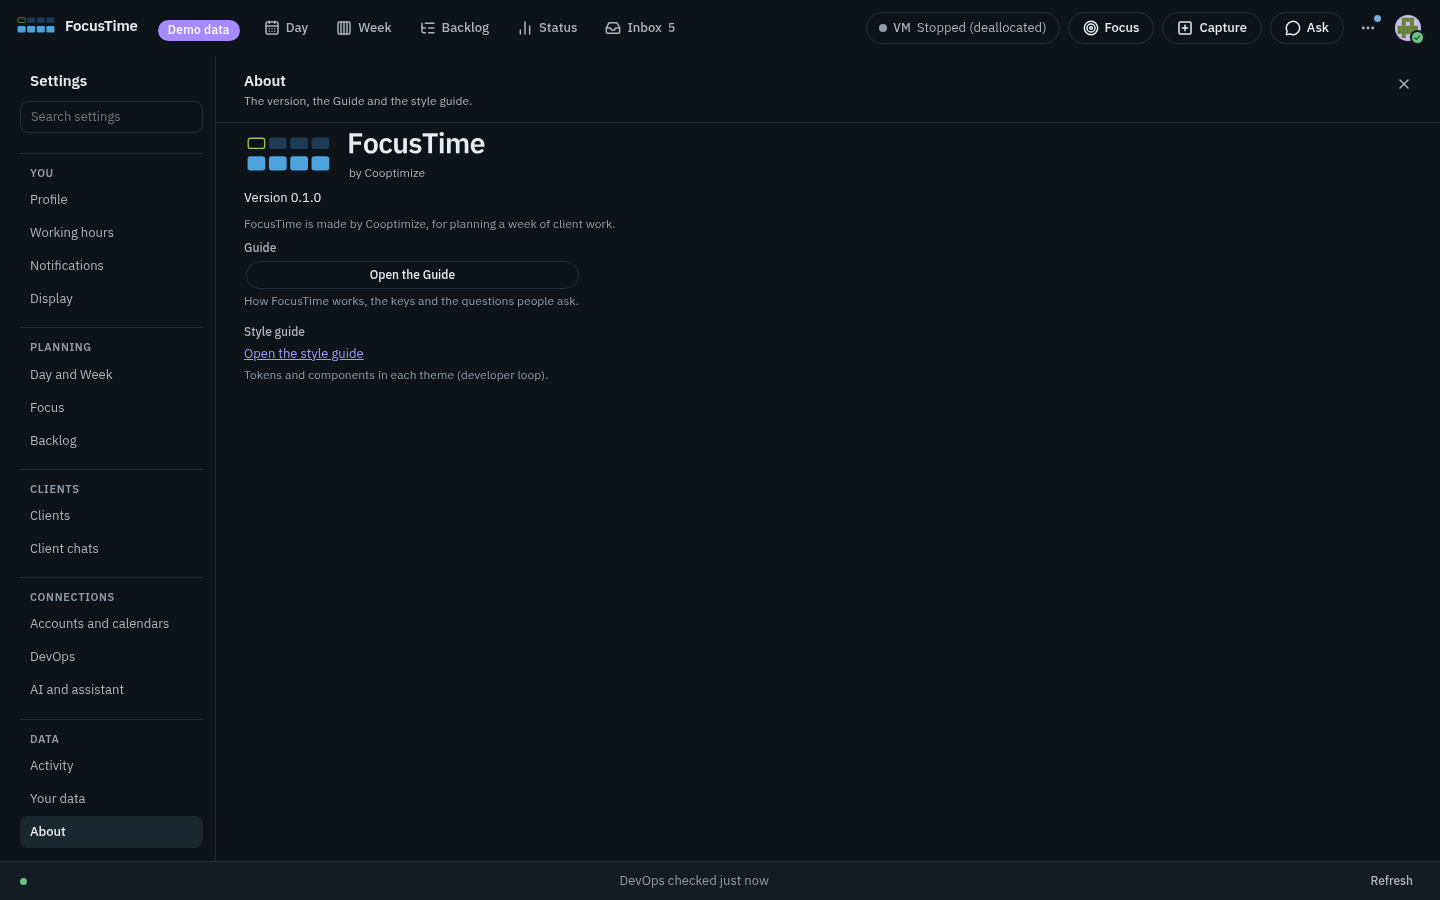
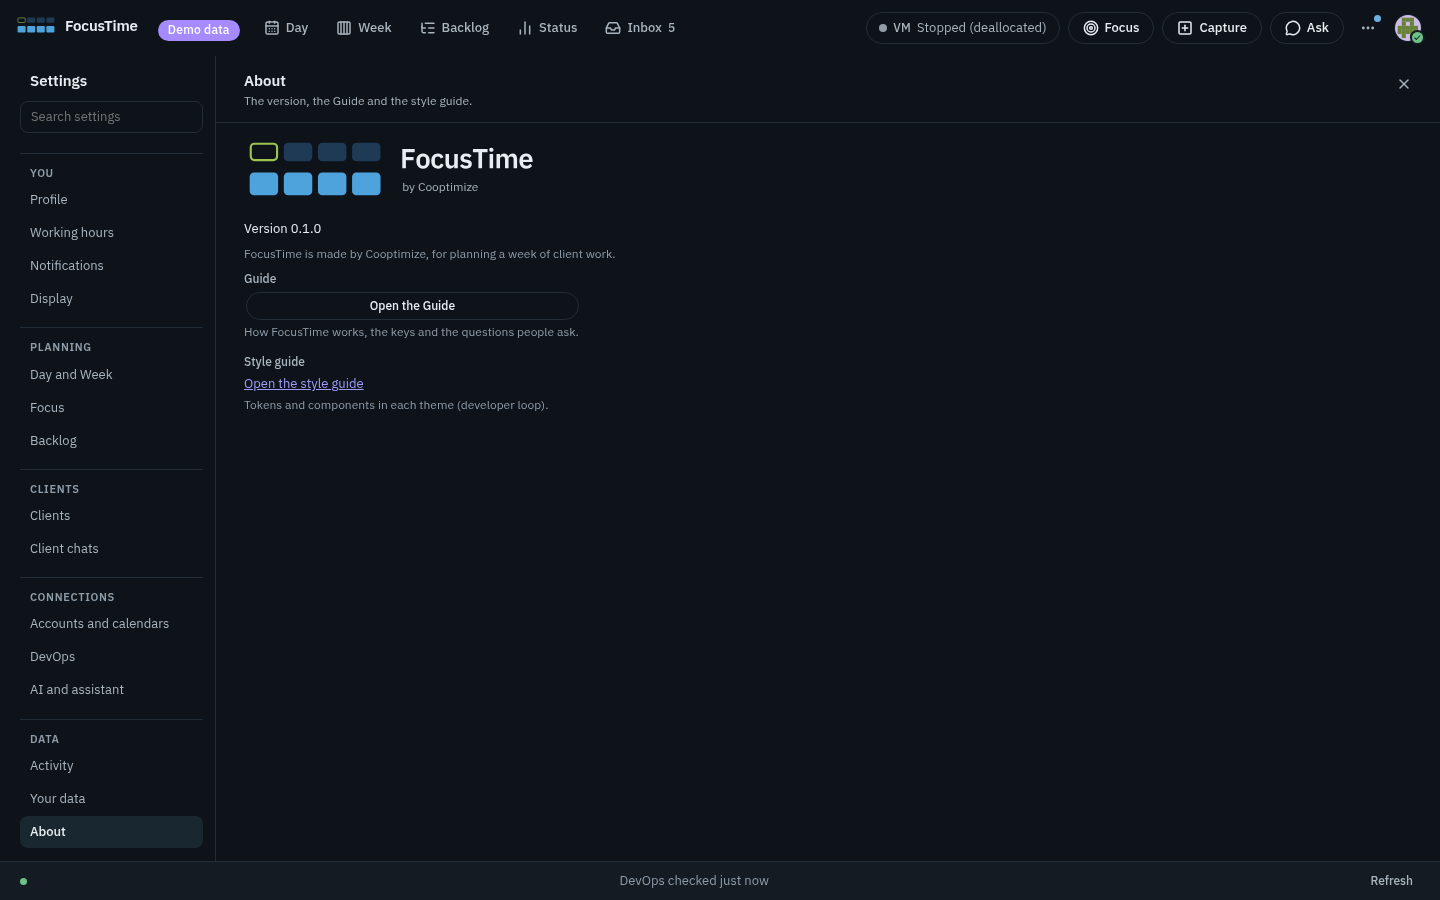
BR-1: from the reviews: one mark while it moves, About's lockup in the old box, Lumen's last words in the docs, steadier tests
Review 1 saw the loader's mark and the top bar's both showing during the move, and About's page sitting higher. Review 2
found the style guide and two open questions still naming Lumen, a stale test name in prefs.js and a double finish in
development. The brand e2e tests read the move in the task it starts and count the loader shown from its CSS event, so a
busy machine no longer fails them.

Claude-Session: https://claude.ai/code/session_01MZF2GqqHYS7xuP5Ahc1YJE

Changed region(s): [[0.1562, 0.1244, 0.4062, 0.4667]]

diff --git a/e2e/brand.test.ts b/e2e/brand.test.ts
@@ -17,15 +17,25 @@ type Seen = { shownAt: number | null; goneAt: number | null; lit: boolean; overl
 const WATCH = () => {
   const seen: Seen = { shownAt: null, goneAt: null, lit: false, overlays: [] };
   (window as unknown as { __seen: Seen }).__seen = seen;
+  let there = false; // the stage was in the page at least once (a frame can run before the markup is parsed)
   const tick = () => {
     const st = document.querySelector<HTMLElement>("#boot .brand-stage");
+    if (st) there = true;
+    // Each change of the stage, with its time, for the failure message.
+    const w = window as unknown as { __log?: string[]; __last?: string };
+    const now = `${st ? "stage" : "none"} opacity ${st ? getComputedStyle(st).opacity : "-"} ${document.readyState}`;
+    if (now !== w.__last) (w.__log ??= []).push(`${Math.round(performance.now())} ${now}`), (w.__last = now);
     if (st && seen.shownAt === null && Number(getComputedStyle(st).opacity) > 0) seen.shownAt = performance.now();
-    if (!st && seen.goneAt === null && document.readyState !== "loading") seen.goneAt = performance.now();
+    if (!st && there && seen.goneAt === null) seen.goneAt = performance.now();
     if (document.querySelector("#boot .week-loader.lit")) seen.lit = true;
     for (const sel of ["[data-close]", "[data-moment]", "[data-lumen]"]) if (document.querySelector(sel) && !seen.overlays.includes(sel)) seen.overlays.push(sel);
     if (performance.now() < 30_000) requestAnimationFrame(tick);
   };
   requestAnimationFrame(tick);
+  // The appear step's own event too, so a starved frame loop can't miss a loader that showed.
+  addEventListener("animationend", (e) => {
+    if ((e as AnimationEvent).animationName === "boot-show" && seen.shownAt === null) seen.shownAt = performance.now();
+  }, true);
 };
 const seen = (page: Page) => page.evaluate(() => (window as unknown as { __seen: Seen }).__seen);
 
@@ -131,9 +141,10 @@ describe.skipIf(!CHROMIUM)("BR-1: the loader is the week mark alone (browser, de
     await p2.goto(h.url);
     await appUp(p2);
     const s2 = await seen(p2);
+    const log = await p2.evaluate(() => (window as unknown as { __log?: string[] }).__log ?? []);
     expect(s2.shownAt).not.toBeNull();
     expect(s2.shownAt!).toBeGreaterThanOrEqual(380);
-    expect(s2.goneAt! - s2.shownAt!).toBeGreaterThanOrEqual(600);
+    expect(s2.goneAt! - s2.shownAt!, log.join(" | ")).toBeGreaterThanOrEqual(600);
     expect(s2.lit).toBe(true); // it finished a pass and moved
     expect(s2.overlays).toEqual([]);
     await slow.close();
@@ -144,21 +155,35 @@ describe.skipIf(!CHROMIUM)("BR-1: the loader is the week mark alone (browser, de
     await hold(ctx, "**/api/action", isAction("week.load"), 1500);
     const page = await ctx.newPage();
     await page.goto(h.url);
-    // Measured in the page, 380 ms after the mark lights up to move (the move is 400 ms).
-    const [moved, mark] = await page.evaluate(
+    // Read in the same task the move starts (a class change wakes the observer before any timer can run, so a busy
+    // machine can't let the move finish first): where the move's last frame puts the mark, the top bar's mark, and
+    // whether that one is hidden. The loader's mark scales from its top left corner (boot.css).
+    type Box = { x: number; y: number; width: number };
+    const [end, mark, hidden] = await page.evaluate(
       () =>
-        new Promise<({ x: number; y: number; width: number } | undefined)[]>((done) => {
-          const look = () => {
-            if (!document.querySelector("#boot .week-loader.lit")) return void requestAnimationFrame(look);
-            setTimeout(() => done([document.querySelector("#boot .week-loader"), document.querySelector(".brand-home .week-mark")].map((e) => e?.getBoundingClientRect().toJSON())), 380);
-          };
-          look();
+        new Promise<[Box | null, Box | undefined, string]>((done) => {
+          const svg = document.querySelector("#boot .week-loader")!;
+          new MutationObserver((_, obs) => {
+            if (!svg.classList.contains("lit")) return;
+            obs.disconnect();
+            const box = svg.getBoundingClientRect();
+            const top = document.querySelector(".brand-home .week-mark");
+            const frames = svg.getAnimations().flatMap((a) => (a.effect as KeyframeEffect).getKeyframes());
+            const last = frames.map((f) => String(f.transform ?? "")).filter((t) => t.startsWith("translate")).pop() ?? "";
+            const n = [...last.matchAll(/-?[\d.]+(?:e-?\d+)?/g)].map((m) => Number(m[0]));
+            const at = n.length === 3 ? { x: box.x + n[0]!, y: box.y + n[1]!, width: box.width * n[2]! } : null;
+            done([at, top?.getBoundingClientRect().toJSON(), top ? getComputedStyle(top).visibility : ""]);
+          }).observe(svg, { attributes: true, attributeFilter: ["class"] });
         }),
     );
-    expect(moved && mark).toBeTruthy();
-    expect(Math.abs(moved!.x - mark!.x)).toBeLessThan(4);
-    expect(Math.abs(moved!.y - mark!.y)).toBeLessThan(4);
-    expect(Math.abs(moved!.width - mark!.width)).toBeLessThan(4);
+    // Only one mark shows while it moves; the top bar's shows again once the loader's is gone.
+    expect(hidden).toBe("hidden");
+    await expect.poll(() => page.locator("#boot .brand-stage").count(), { timeout: 3000 }).toBe(0);
+    expect(await page.locator(".brand-home .week-mark").evaluate((e) => getComputedStyle(e).visibility)).toBe("visible");
+    expect(end && mark).toBeTruthy();
+    expect(Math.abs(end!.x - mark!.x)).toBeLessThan(2);
+    expect(Math.abs(end!.y - mark!.y)).toBeLessThan(2);
+    expect(Math.abs(end!.width - mark!.width)).toBeLessThan(2);
     await ctx.close();
   }, T);
 
@@ -177,7 +202,8 @@ describe.skipIf(!CHROMIUM)("BR-1: the loader is the week mark alone (browser, de
       expect(await page.evaluate(() => document.getAnimations().filter((a) => /^wl-\d$/.test((a as CSSAnimation).animationName) && a.playState === "running").length)).toBe(8);
       const o = () => page.evaluate(() => [...document.querySelectorAll("#boot .wl")].map((e) => Number(getComputedStyle(e).opacity)));
       const seenOpacities = new Set<number>();
-      for (let i = 0; i < 6; i++) (await o()).forEach((v) => seenOpacities.add(Math.round(v * 10))), await page.waitForTimeout(110);
+      // Sampled across a whole pass (1.6 s), so a slow sampler can't land only in the all-lit hold.
+      for (let i = 0; i < 16; i++) (await o()).forEach((v) => seenOpacities.add(Math.round(v * 10))), await page.waitForTimeout(110);
       expect(seenOpacities.size).toBeGreaterThan(2);
       if (long) {
         await page.waitForTimeout(t0 + 7400 - Date.now());

diff --git a/ui/brand/boot.ts b/ui/brand/boot.ts
@@ -67,6 +67,8 @@ function move(): void {
   for (const [el, from] of blocks) el.animate?.([{ opacity: from }, { opacity: 1 }], { duration: 200, easing: "ease-out" });
   const box = svg.getBoundingClientRect();
   const mark = document.querySelector(".brand-home .week-mark")?.getBoundingClientRect();
+  // The top bar's own mark waits hidden until the moving one lands on it, so the two never show at once.
+  if (mark) document.documentElement.classList.add("boot-flying");
   const fly = { duration: FLY_MS, easing: "cubic-bezier(0.5, 0, 0.2, 1)", fill: "forwards" } as const;
   if (mark && mark.width > 0 && box.width > 0)
     svg.animate?.([{ transform: "none" }, { transform: `translate(${mark.left - box.left}px, ${mark.top - box.top}px) scale(${mark.width / box.width})` }], fly);
@@ -81,6 +83,7 @@ function finish(): void {
   window.clearTimeout(timer);
   window.removeEventListener("keydown", skipKey, true);
   stage()?.remove();
+  document.documentElement.classList.remove("boot-flying");
   const say = boot()?.querySelector(".boot-say");
   if (say) say.textContent = "FocusTime is ready";
   // The live line stays a moment so it is heard, then the last of the loader goes.

diff --git a/ui/brand/brand.css b/ui/brand/brand.css
@@ -15,9 +15,10 @@ span.brand-svg > svg { display: block; width: 100%; height: auto; }
 .brand-home:focus-visible { outline: 2px solid var(--focus); outline-offset: 2px; }
 
 /* The lockup (BR-1): the week mark, then the wordmark over "by Cooptimize". About in Settings. */
-.lockup { display: inline-flex; align-items: center; gap: 14px; color: var(--text); }
+/* About's lockup takes the box the old one did (320 x 85 px), so the page under it doesn't move. */
+.lockup { display: inline-flex; align-items: center; gap: 14px; width: 320px; height: 85px; color: var(--text); }
 .lockup-words { display: flex; flex-direction: column; gap: 2px; }
-.lockup .wordmark { width: 170px; }
+.lockup .wordmark { width: 164px; }
 .lockup-by { font-size: var(--fs-2); color: var(--text-muted); padding-left: 2px; }
 
 /* About in Settings. */

diff --git a/public/prefs.js b/public/prefs.js
@@ -1,7 +1,7 @@
 // BR-1: before the first paint, the person's theme, text size and reduce motion from the copies the app keeps
 // locally (ui/theme.ts, ui/textsize.ts, ui/brand/motion.ts set them; this only reads), so the loader's week mark is
 // drawn in the right colors, size and motion from the start and nothing jumps when the app's own script arrives.
-// A file of its own, not inline: the page's CSP allows no inline script. ui/brand/prefs.test.ts keeps it in step.
+// A file of its own, not inline: the page's CSP allows no inline script. ui/brand/boot.test.ts keeps it in step.
 (function () {
   var root = document.documentElement;
   var theme = "cooptimize-dark";

diff --git a/ui/brand/Opening.tsx b/ui/brand/Opening.tsx
@@ -14,8 +14,12 @@ export function Opening({ ready, lines, onFinished }: { ready: boolean; lines: S
   finished.current = onFinished;
   const line = ready ? null : waitingLine(lines);
   useEffect(() => bootWaiting(line), [line]);
+  // Once per opening: StrictMode runs an effect twice in development, and onFinished must not.
+  const told = useRef(false);
   useEffect(() => {
-    if (ready) bootReady(() => finished.current?.());
+    if (!ready || told.current) return;
+    told.current = true;
+    bootReady(() => finished.current?.());
   }, [ready]);
   return null;
 }

diff --git a/ui/brand/boot.css b/ui/brand/boot.css
@@ -46,6 +46,8 @@ html { background: var(--boot-bg); }
 
 /* The mark (the week mark's own drawing, ui/brand/Brand.tsx's WeekLoader) and its pass. */
 .week-loader { display: block; overflow: visible; transform-origin: 0 0; }
+/* While the loader's mark moves onto the top bar's, that one waits hidden (ui/brand/boot.ts), so only one shows. */
+:root.boot-flying .brand-home .week-mark { visibility: hidden; }
 .week-loader .wl-am { fill: var(--boot-am); }
 .week-loader .wl-pm { fill: var(--boot-pm); }
 .week-loader .wl-hollow { stroke: var(--boot-accent); }

diff --git a/ui/brand/Brand.tsx b/ui/brand/Brand.tsx
@@ -63,7 +63,7 @@ export function WeekLoader() {
 }
 
 /** The lockup (BR-1): the week mark, the outlined wordmark and "by Cooptimize". About in Settings. */
-export function Lockup({ height = 40 }: { height?: number }) {
+export function Lockup({ height = 64 }: { height?: number }) {
   const uid = useId().replace(/:/g, "");
   return (
     <span className="lockup" role="img" aria-label="FocusTime by Cooptimize">

diff --git a/docs/open-questions.md b/docs/open-questions.md
@@ -142,8 +142,8 @@ Raised in step 13 (not blocking):
 - Q91. (Step 15.5. Done Nov 2, step 16.2, D323: closed through CloseNotification, which the developer desktop honors.) A held notification checks whether it still matters when focus ends (the day got planned, the follow-up closed). Sent ones aren't withdrawn from the shell when that happens; FocusTime doesn't close notifications it sent. Close them (CloseNotification) when the thing is done?
 - Q92. (Step 16.3. Decided Nov 2, step 16.4, D343: accept as is.) Graph can't read a preferred presence apart from the aggregate, so a manual Busy set in Teams during a FocusTime Busy session looks the same as FocusTime's and is cleared at the end. Accept, or offer "Keep my status after focus" in the focus screen?
 - Q93. (Step 17.5.) The brand brief's full surface and text palette (backgrounds, panels, text greys) is not applied; only the brand tokens are. Apply it to the Cooptimize themes later, with a contrast check of every view, or keep the current surfaces?
-- Q94. (Step 17.5.) A "zero at-risk week" moment (Lumen bobs once when the week has no at-risk blocks) is not built. Suggested place: Week › Plan the week, right after Done when the planned week has no at-risk block, as a moment over the app like Close out's (never in the Week view itself, which stays Lumen-free). Build it?
-- Q95. (Step 17.5, brief B08.) Live favicon: the tab and tray icon showing the real week's fills (planned, done) instead of the static mark. Queued as an app feature; it would make the icon carry information, so it needs a rule for when Lumen and the mark may do that.
+- Q94. (Step 17.5.) A "zero at-risk week" moment (Lumen bobs once when the week has no at-risk blocks) is not built. Suggested place: Week › Plan the week, right after Done when the planned week has no at-risk block, as a moment over the app like Close out's (never in the Week view itself, which stays Lumen-free). Build it? BR-1 (Nov 15): Lumen and the moments are removed, so this would need its own design.
+- Q95. (Step 17.5, brief B08.) Live favicon: the tab and tray icon showing the real week's fills (planned, done) instead of the static mark. Queued as an app feature; it would make the icon carry information, so it needs a rule for when Lumen and the mark may do that. BR-1 (Nov 15): Lumen is gone; the rule would be for the week mark alone.
 - Q96. (Step 17.5.) The PNG icons were delivered rendered on a dark rounded tile that isn't in `assets/brand/tools/`. To re-render them (only if mark-week changes), the tile and its render step need adding to the tools first.
 - Q97. (R1.) The Dataverse application user "Coopilot Dataverse Reader" and its role "Coopilot Reader" keep their names. Renaming an application user is a Dataverse admin task (Power Platform admin center), and nothing in FocusTime depends on the name. Rename them to "FocusTime Dataverse Reader" and "FocusTime Reader" when convenient? The Entra app registration "Coopilot Desktop" also keeps its display name, which is what Microsoft's consent screen shows. FocusTime can't rename it: its delegated sign-in has no permission to change app registrations (Application.ReadWrite.All), and the Azure CLI isn't installed. Rename it to "FocusTime Desktop" in Entra > App registrations > Branding & properties. The client id, scopes and redirect URIs stay the same, so there's no re-consent.
 - Q98. (R1.) Migrate the Outlook marker? Events carry the extended property `CoopilotId` (fixed GUID namespace). A rename would mean reading both names for a while, rewriting each future event's marker, and leaving past events as they are, which is a lot of writes for a name nobody sees. Recommended: never. The property is invisible in Outlook, and CLAUDE.md records it as the historical name.
@@ -1167,4 +1167,16 @@ From the IT review (TD-1):
   - The loader's timing is measured from its CSS start, so a load that takes 400 to 1000 ms in all is held to about 1 s, as before: the 600 ms minimum counts from when the loader appeared.
   - "Musts done. See you tomorrow." went with Lumen's moment; Close out's own toast is unchanged.
   - The loader's screen-reader words ("Loading FocusTime", "FocusTime is ready") are the only new words besides the 8 s line and the Reduce motion hint.
+- From review 1 (the frames only), not changed here:
+  - Should the loader's mark be larger on a big desktop window? It is 96 px wide at Default text size, scaled with the text size only.
+  - Every block dims together at the end of a pass, so a frame caught then looks stalled. Keep one block lit through the dim?
+  - The mark crosses the app's first rows while it moves (0.4 s), as the old week did. Fade it as it goes instead?
+  - The empty-state pair (Inbox › Done) isn't empty in the demo; no empty state drew Lumen before BR-1 (they went in U2 and IB-1), so nothing there changed.
+  - Settings' reconnect shot says "Outlook is connected again." while the row still says it needs sign-in. That is the shot's routed answer, before and after, not the app.
+- From review 2 (the diff), not changed here:
+  - The loader's line ships as "Still waiting on FocusTime" in `index.html`, for when the app's script or the sign-in check itself takes over 8 s (the app names the sources once it runs). It is the one place the line can name FocusTime.
+  - The 400 and 600 ms now count from the first paint, not from the app's script starting, so the script's own loading counts. Timed side by side it isn't slower, but a load right at 400 ms can now show the loader where it showed nothing before.
+  - `public/prefs.js` is served `no-cache`, so a load with a cold service worker revalidates it before the first paint (one small request).
+  - Sign-in, About and the Guide's Start here show the week mark where the bent mark or the unroll was; the prompt made the week mark the only mark, so they carry it.
+  - While the loader finishes, a key skips it and does nothing else, and a click skips it, as Close out's reverse did before. Keys before the app is ready reach nothing, as before.
 

diff --git a/docs/decisions.md b/docs/decisions.md
@@ -2840,4 +2840,8 @@ Unnumbered until merge.
 | - | Done | Lumen is removed everywhere, and nothing replaces it: the opening, Close out's reverse (Close out ends on Today with "Closed out. Nice work."), the first launch (no overlay; `ui.first_launch` is still recorded), Settings' reconnect moment (a plain line), the Guide's footer and a tour's last card (no mark). Sign-in shows the week mark at the loader's size, at the top of its card; About's lockup is the week mark, the wordmark and "by Cooptimize"; the Guide's Start here shows the week mark. |
 | - | Done | Removed with it: `Lumen`, `LumenLoading`, `BentMark`, `Unroll`, `CloseReverse`, `MomentOverlay`, `InlineMoment`, `allDone`, the bent and unroll geometry, the tokens `--mascot-highlight` and `--brand-beam-blend`, and the assets mark-bent, mark-bent-mono, lumen, lumen-loading, lockup-horizontal and unroll-frame-0 to 4 with their baked copies. `ui/brand/assets.test.ts` checks no source, doc page or built file names Lumen. |
 | - | Done | The week mark, the app icon, the favicon and the Teams icons are unchanged: their drawing is pinned by hash in `ui/brand/assets.test.ts`, and `scripts/pwa-icons.ts` and the Teams icon script rerun with no byte change. Regenerating the assets changed only mark-week.svg's token block (it no longer names `--lime` and `--beam-blend`). |
+| - | Done | The move doesn't wait for the pass to finish (the move lights every block as it goes): waiting made a load that ended just after 400 ms up to 360 ms slower. Timed back to back with origin/main on one machine (`docs/ux/br1/timings-same-run.json`): fast 0.31 to 0.47 s (was 0.44 to 0.55 s), the week held 1.5 s 2.3 s (was 4.2 s), held 3 s 3.8 s (was 5.7 s). |
+| - | Done | Review 1 (the frames only, as a daily user): calmer; nothing jumps between the first paint, the loader and the 8 s line. Fixed from it: both marks showed while the loader's mark moved onto the top bar's, so the top bar's now waits hidden until it lands (a class on `html`, `boot-flying`; `e2e/brand.test.ts` checks it); About's lockup takes the old one's box again (320 by 85 px), so the page under it is where it was. |
+| - | Done | Review 2 (the diff against the rules): no inline style or script, no animation without its reduced motion rule, the week mark and icons unchanged but for the known token block, no other screen between the sign-in check and the app. Fixed from it: the style guide's Icons paragraph and Q94 and Q95 still named Lumen as current; prefs.js named a test that doesn't exist; in development (StrictMode) the opening's finish could run twice. |
+| - | Done | `e2e/brand.test.ts` made steadier under a loaded machine: the loader counts as gone only after the probe has seen it, the failure message lists every change of the stage with its time, and the blocks are sampled across a whole pass. |
 

diff --git a/docs/design/style-guide.md b/docs/design/style-guide.md
@@ -340,7 +340,7 @@ Hover is a faint wash, pressed a slightly stronger one, both instant. Disabled a
 
 **The top bar.** The VM chip is a quiet pill with its dot; Focus, Capture and Ask are outlined with an icon and their word; More is a round icon button; the photo is as it was.
 
-**Icons.** One family for FocusTime's own things (`ui/icons.tsx`, by name; drawn by Lucide, ISC, only the icons named there in the bundle): 16 px at the Default text size and scaled with it, a 1.5 px stroke at every size, rounded ends, the color of the text beside it, never colored on its own except by a state it sits in. An icon beside a word is hidden from screen readers; an icon alone has a name. No text character acts as a control or a mark (no ‹ › ⋯ + × ▸ ▾ ✓): each is its icon, with the name it had. Arrows inside sentences ("→ Thu") stay text. Not part of the family, on purpose: the DevOps type icons (their shapes and colors are the project's), the brand marks and Lumen, a person's photo.
+**Icons.** One family for FocusTime's own things (`ui/icons.tsx`, by name; drawn by Lucide, ISC, only the icons named there in the bundle): 16 px at the Default text size and scaled with it, a 1.5 px stroke at every size, rounded ends, the color of the text beside it, never colored on its own except by a state it sits in. An icon beside a word is hidden from screen readers; an icon alone has a name. No text character acts as a control or a mark (no ‹ › ⋯ + × ▸ ▾ ✓): each is its icon, with the name it had. Arrows inside sentences ("→ Thu") stay text. Not part of the family, on purpose: the DevOps type icons (their shapes and colors are the project's), the brand mark, a person's photo.
 
 | Group | Names |
 |---|---|
